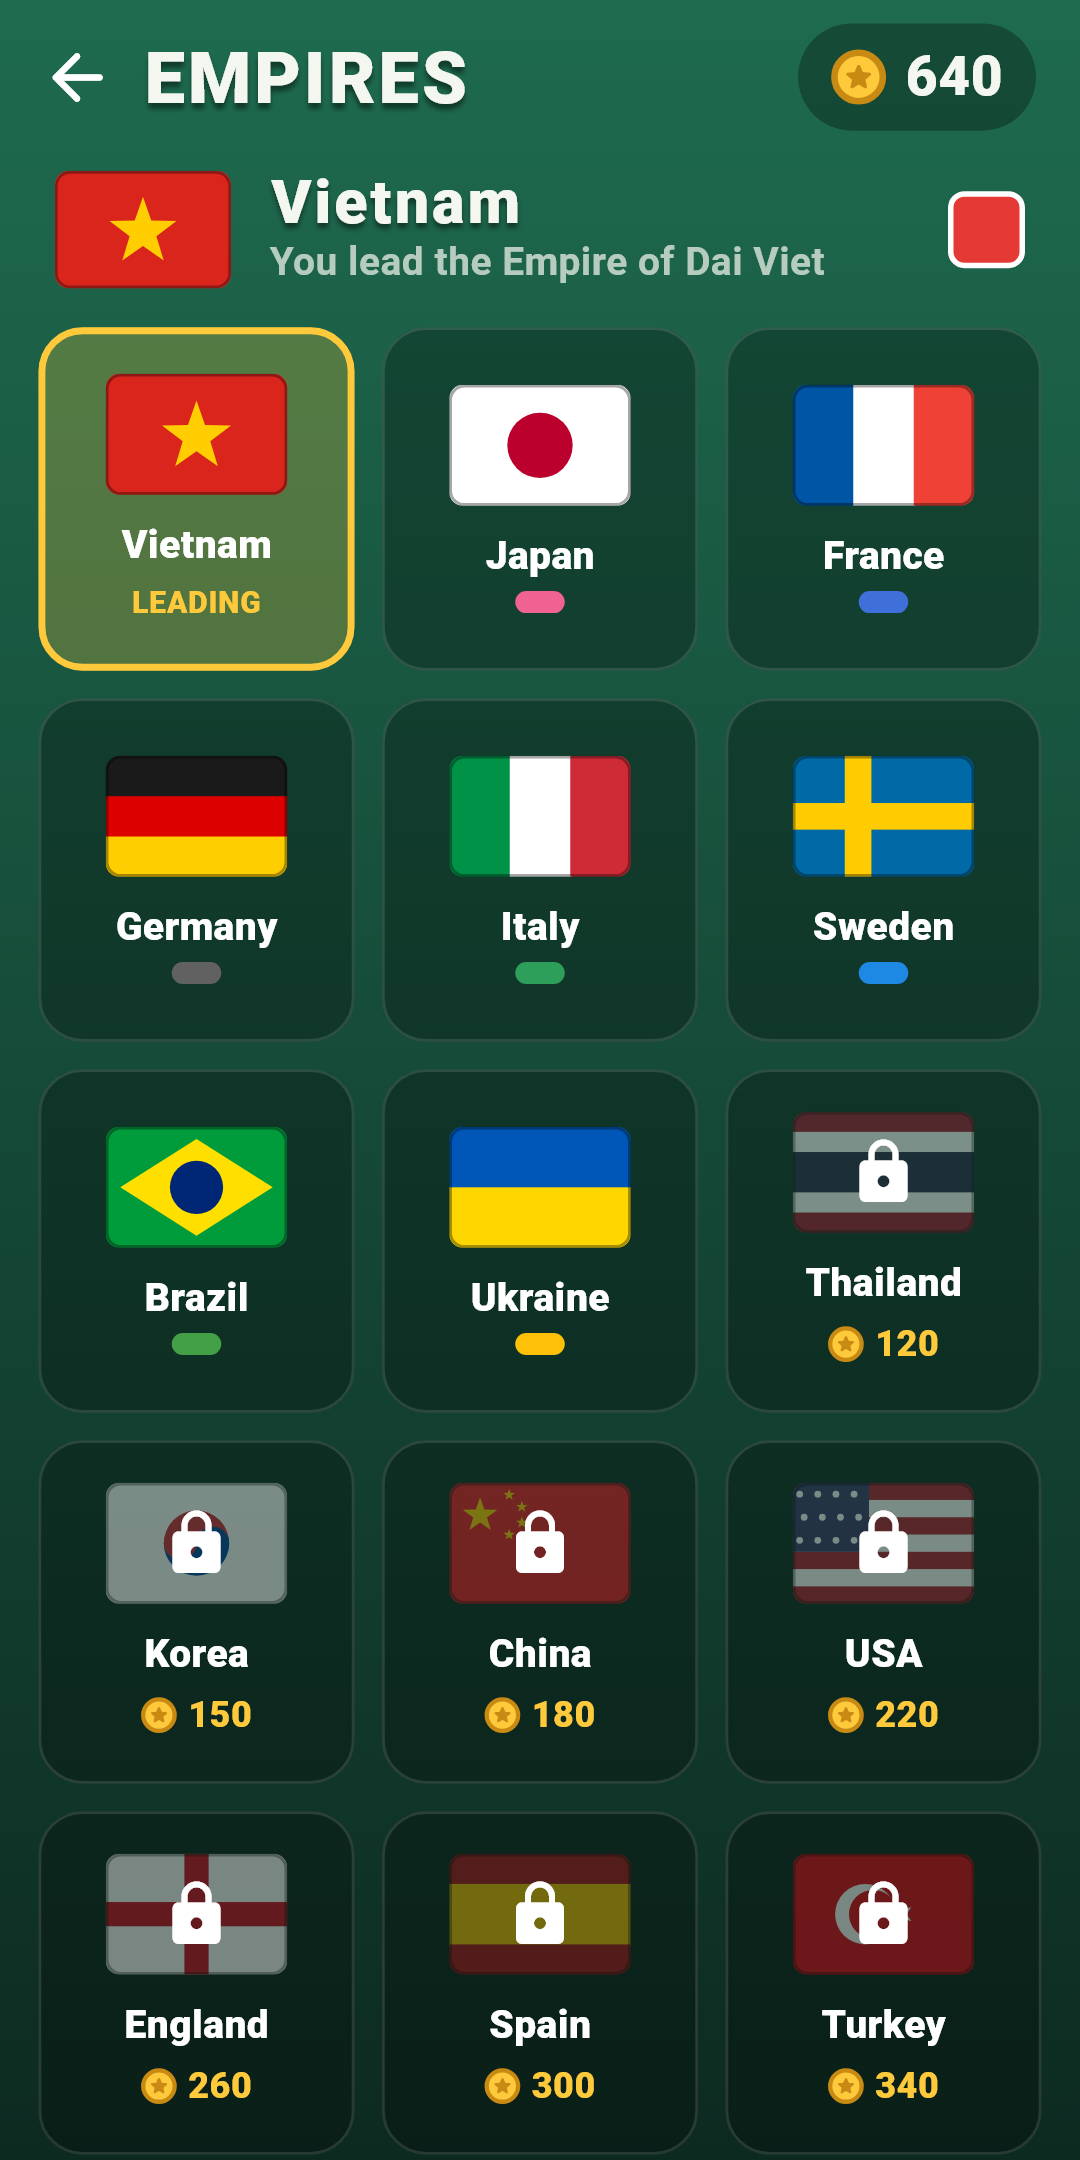
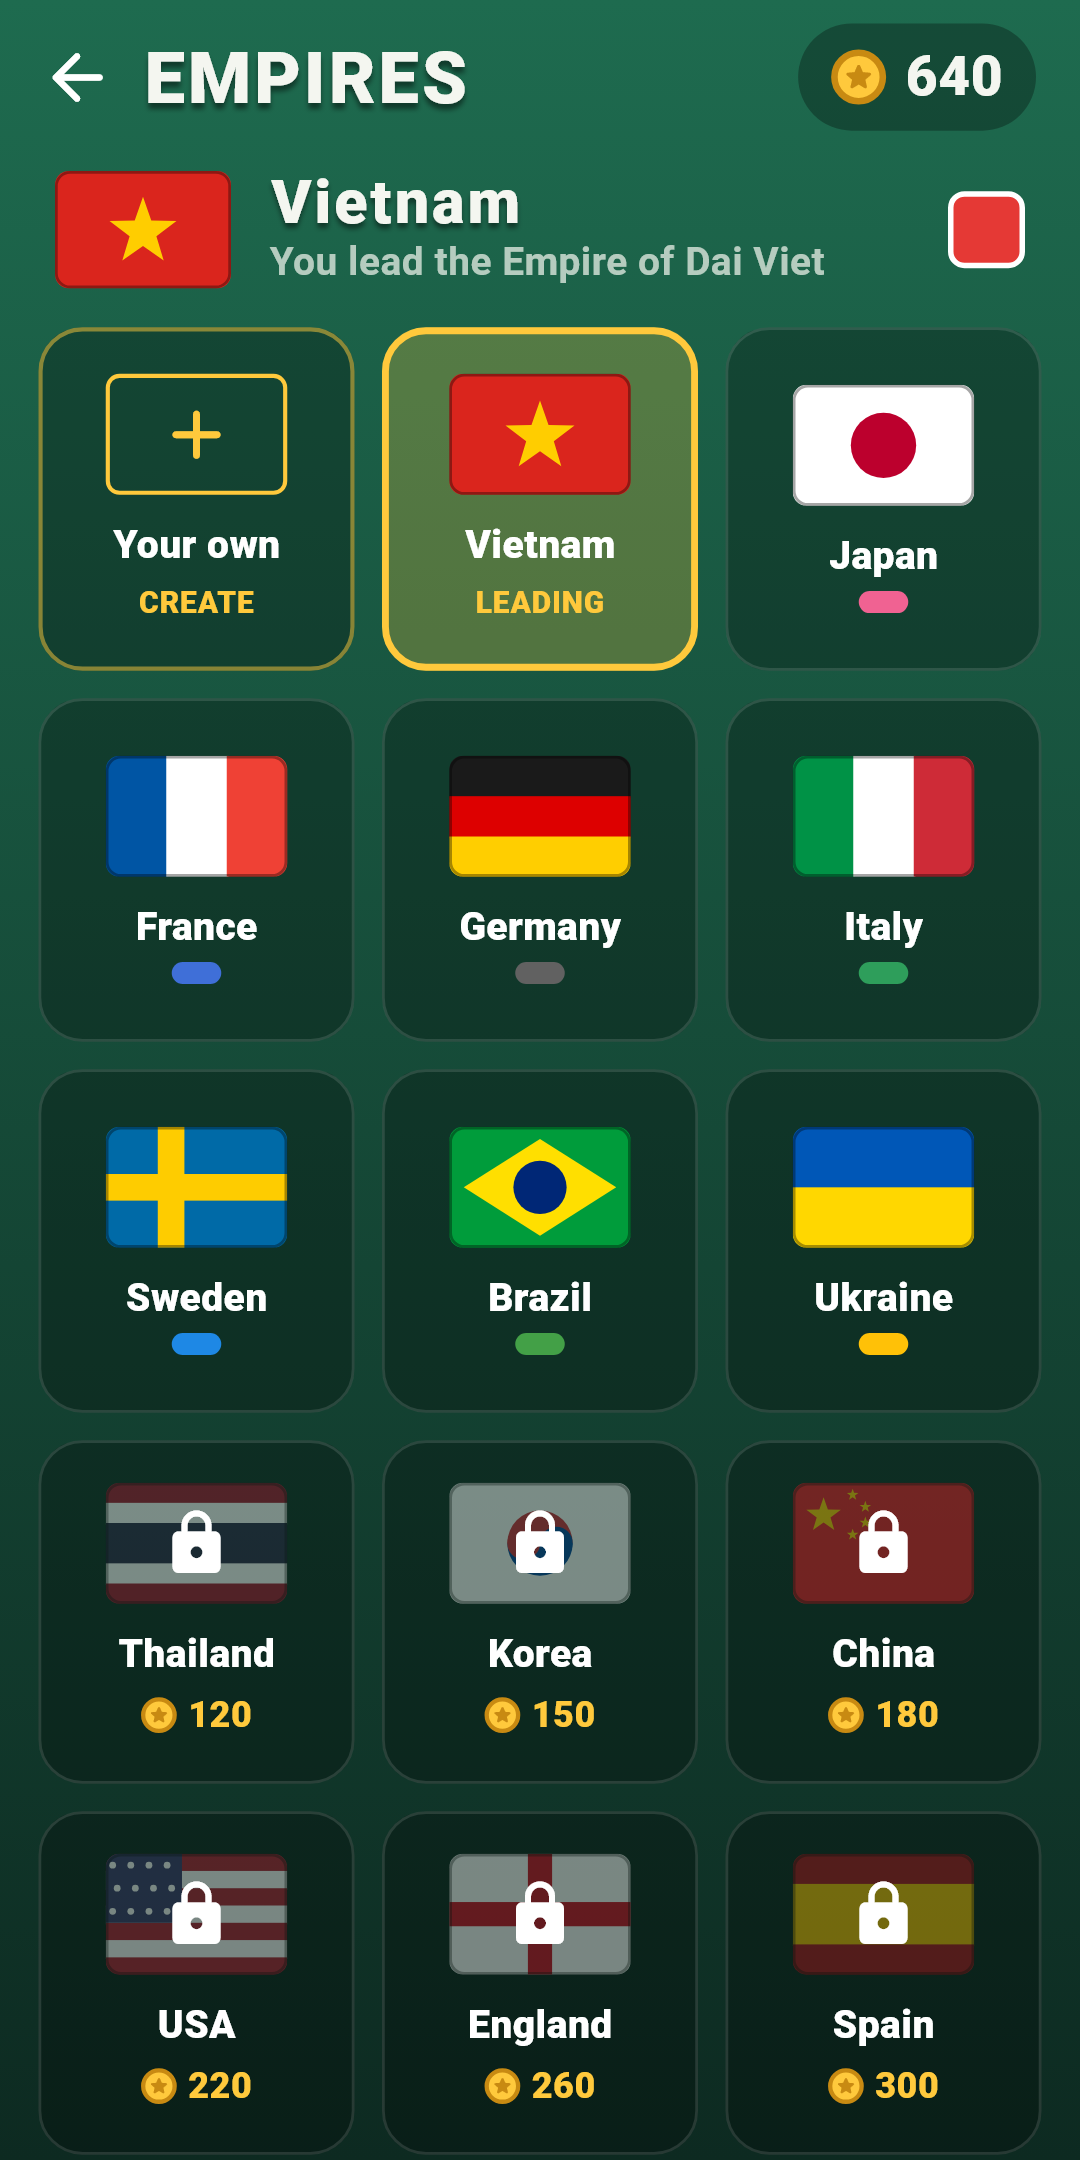
Empire Rush: 48 nations, custom empire, privacy note on region setting

diff --git a/empirerush/privacy-policy.html b/empirerush/privacy-policy.html
@@ -49,7 +49,8 @@
   <p>This policy applies to the Empire Rush game for Android (package <code>com.anhrice.empirerush</code>), published by anhrice (“we”, “us”). If you have any question about this policy, contact us at <a href="mailto:tanh.naht@gmail.com">tanh.naht@gmail.com</a>.</p>
 
   <h2>2. Information stored on your device</h2>
-  <p>To keep your progress, the game saves in its private storage on your device: your coins, the nations you have unlocked and the one you lead, your campaign progress, your best share of the map for each difficulty, the number of battles played and empires defeated, your chosen difficulty, and your sound and vibration settings.</p>
+  <p>To keep your progress, the game saves in its private storage on your device: your coins, the nations you have unlocked and the one you lead, the name and flag of the empire you designed yourself (if any), your campaign progress, your best share of the map for each difficulty, the number of battles played and empires defeated, your chosen difficulty, and your sound and vibration settings.</p>
+  <p>To offer your home nation for free, the game reads your device’s language and region setting (for example “en-US”) on the device. This setting is not stored or sent anywhere.</p>
   <p>These values are <strong>not sent to us or to any third party</strong>, and they are not used for advertising. If Android’s own device backup is turned on, Android may include them in your Google account backup; that backup is handled by Google under its own terms, and we cannot access it.</p>
   <p>The rival empires in the game are computer-controlled. There is no chat, no multiplayer and no way to share content with other users. Flags and nation names are used for fun only and carry no political meaning.</p>
 

diff --git a/empirerush/index.html b/empirerush/index.html
@@ -56,7 +56,7 @@
 <main>
   <section class="features">
     <div class="card"><div class="emoji">🚩</div><h3>Choose your nation</h3>
-      <p>24 nations with their own flags and colours. Start with 8, unlock the rest with coins won in battle.</p></div>
+      <p>48 nations with their own flags and colours, and your home country is free. Start with 8, unlock the rest with coins won in battle, or design your own empire with its own name and flag.</p></div>
     <div class="card"><div class="emoji">🧠</div><h3>Smart rival empires</h3>
       <p>AI empires plan raids, retreat in time, hunt exposed lines and steal land. Four difficulty levels, up to 12 rivals.</p></div>
     <div class="card"><div class="emoji">✂</div><h3>Cut and conquer</h3>
